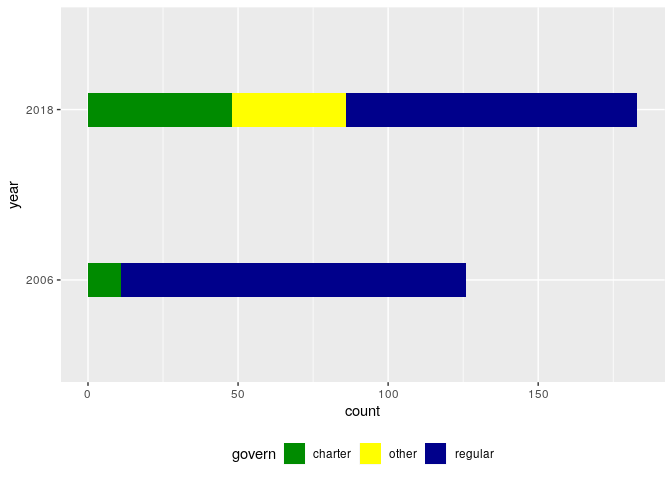
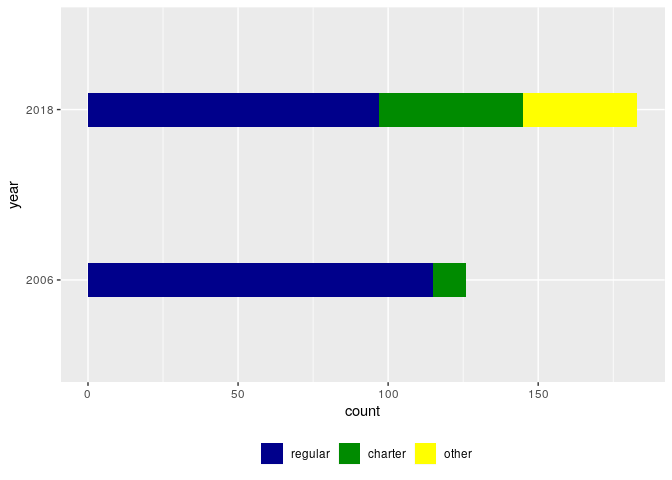
added a space or something

diff --git a/first+this_rawfacts.md b/first+this_rawfacts.md
@@ -82,12 +82,14 @@ Proportions of schools by governance type:
 ``` r
 first_last %>%
     mutate(year = as.factor(year)) %>%
-    ggplot(aes(x = year, fill = govern)) +
+    ggplot(aes(x = year, fill = fct_infreq(govern))) +
     geom_bar(position = position_stack(reverse = TRUE), 
              width = .2) +
     coord_flip() +
-    scale_fill_manual(values = c("green4", "yellow", "darkblue")) +
-    theme(legend.position = "bottom")
+    scale_fill_manual(values = c("darkblue", "green4", "yellow")) +
+    theme(legend.position = "bottom",
+          legend.spacing.x = unit(.2, "cm"),
+          legend.title = element_blank())
 ```
 
 ![](first+this_rawfacts_files/figure-markdown_github/unnamed-chunk-4-1.png)
